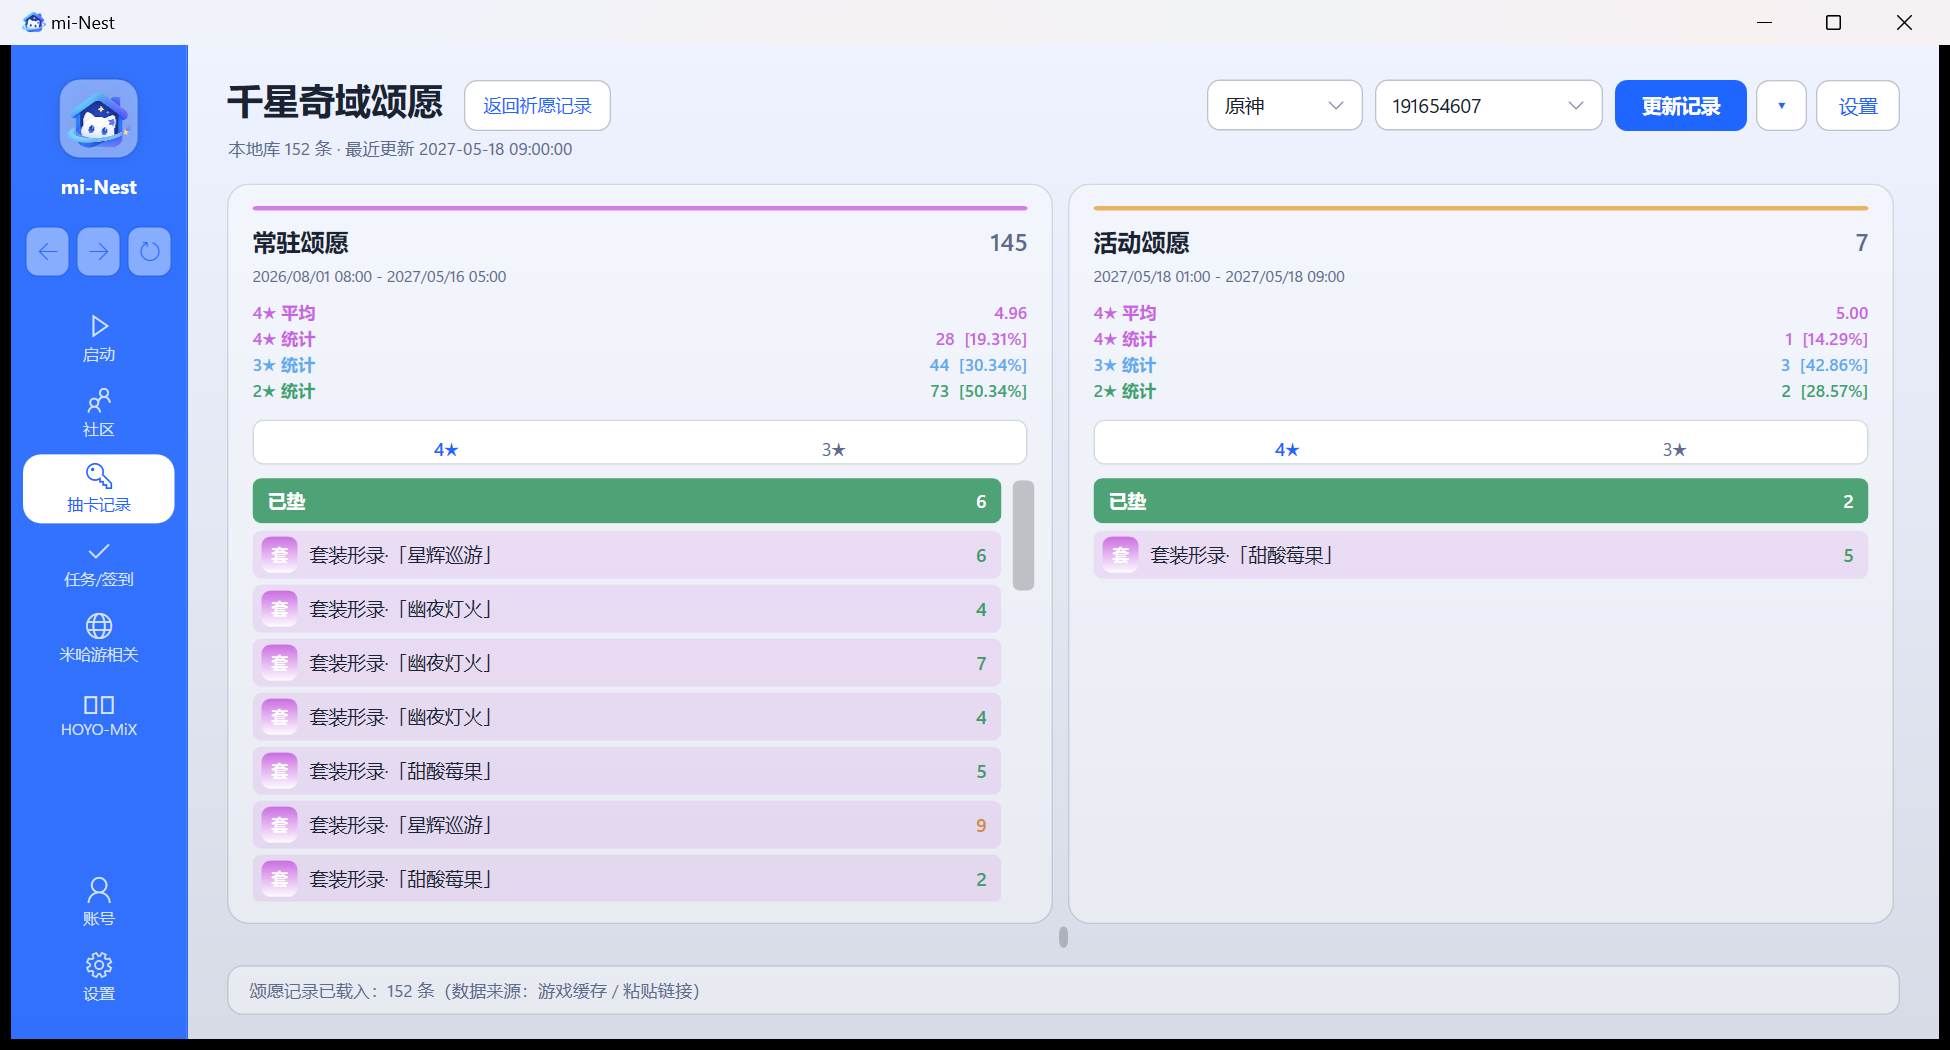
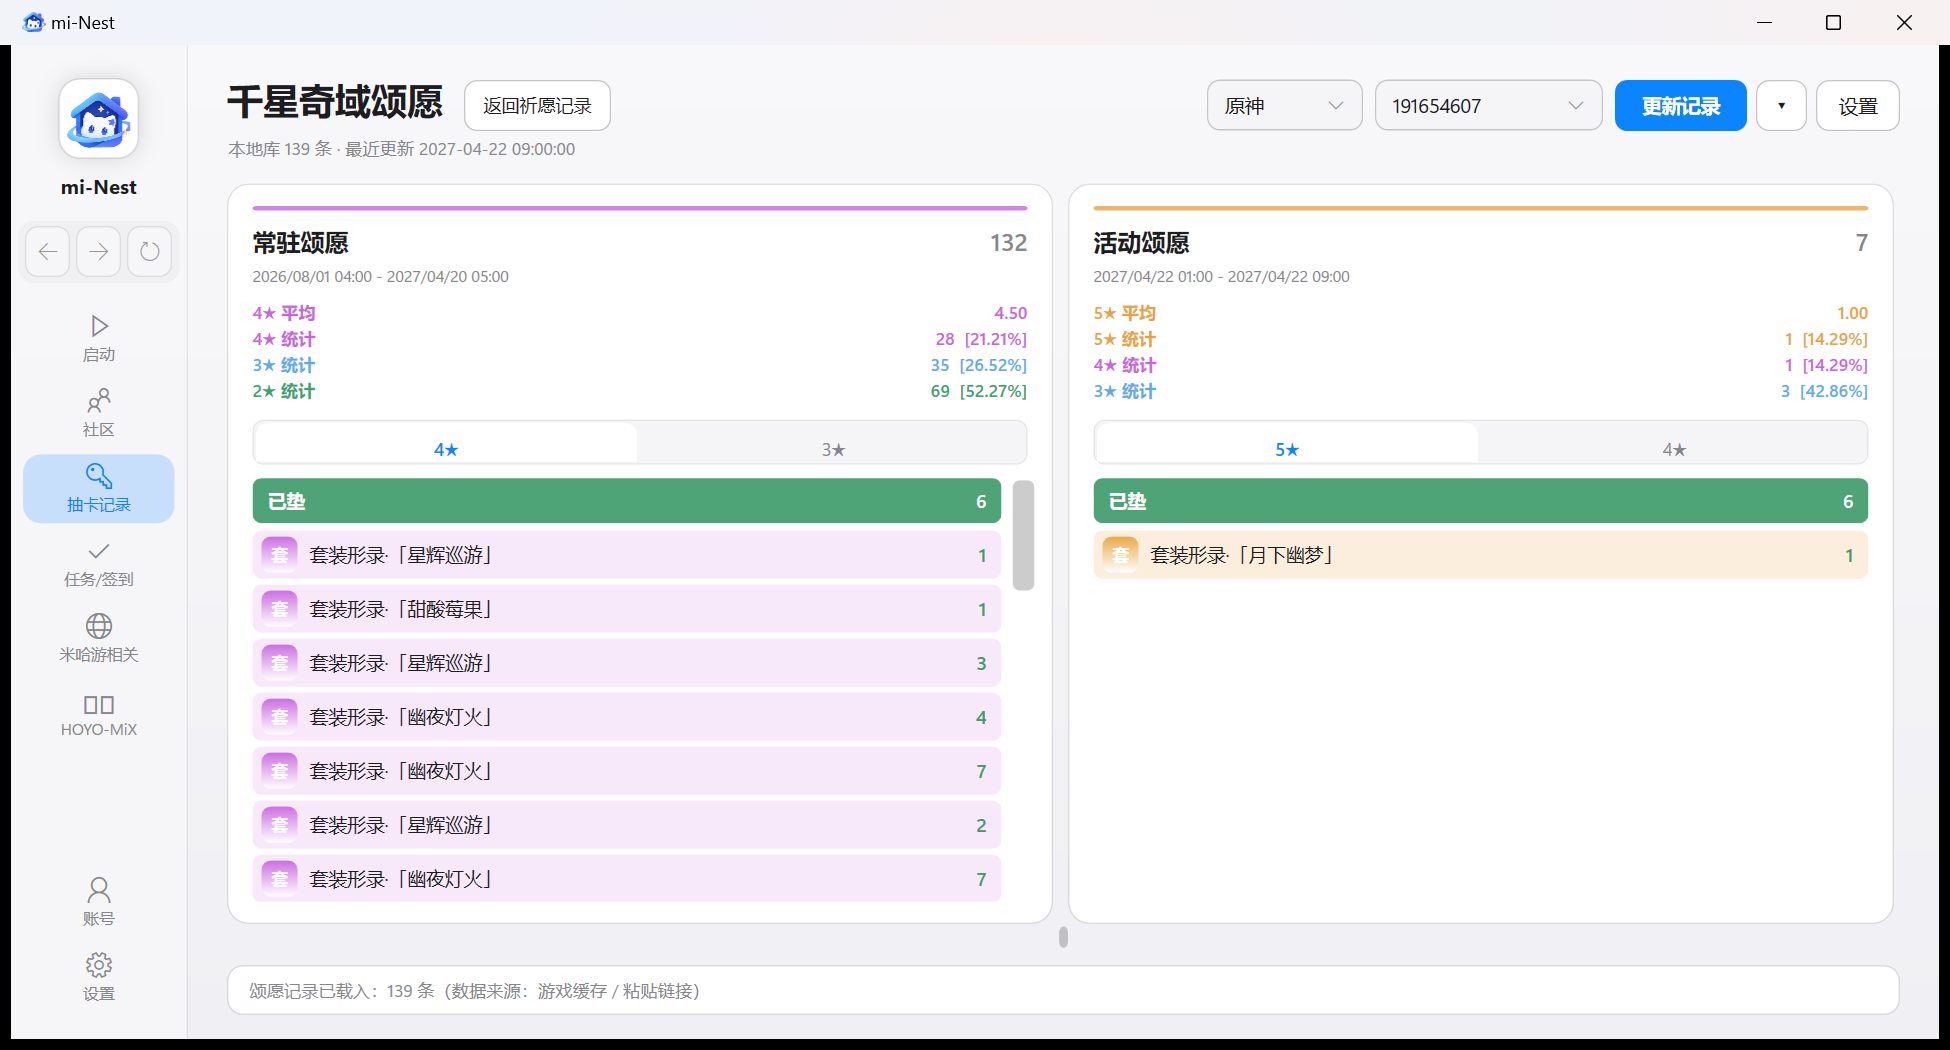
活动颂愿改为 5★/4★/3★ 统计与 5★、4★ 分段

diff --git a/src/mi-Nest/Pages/GachaPage.xaml.cs b/src/mi-Nest/Pages/GachaPage.xaml.cs
@@ -32,11 +32,14 @@ public partial class GachaPage : UserControl
     {
         public GachaPoolDef Pool = new("", "");
         public bool ShowFour = true;
+        public bool Activity;
         public Border Root = new();
         public Border Card = new();
         public StackPanel ListPanel = new();
+        public Button TabFive = new();
         public Button TabFour = new();
         public Button TabThree = new();
+        public List<RowVm> FiveRows = new();
         public List<RowVm> FourRows = new();
         public List<RowVm> ThreeRows = new();
         public int Total;
@@ -508,16 +511,25 @@ public partial class GachaPage : UserControl
 
     private BeyondColUi BuildBeyondColumn(GachaPoolDef pool, List<GachaItem> items)
     {
-        var col = new BeyondColUi { Pool = pool };
-        var accentHex = pool.Code == "1000" ? "#C864E0" : "#E8A33D";
+        var col = new BeyondColUi { Pool = pool, Activity = pool.Code == "2000" };
+        var accentHex = col.Activity ? "#E8A33D" : "#C864E0";
         var asc = items.OrderBy(x => x.Time).ThenBy(x => x.Id).ToList();
+        var five = new List<RowVm>();
         var four = new List<RowVm>();
         var three = new List<RowVm>();
         var c4 = 0;
+        var c5 = 0;
         foreach (var it in asc)
         {
             c4++;
-            if (it.RankType == "4")
+            c5++;
+            if (it.RankType == "5")
+            {
+                five.Add(new RowVm { Item = it, Pity = c5 });
+                c5 = 0;
+                c4 = 0;
+            }
+            else if (it.RankType == "4")
             {
                 four.Add(new RowVm { Item = it, Pity = c4 });
                 c4 = 0;
@@ -527,16 +539,19 @@ public partial class GachaPage : UserControl
                 three.Add(new RowVm { Item = it, Pity = c4 });
             }
         }
-        col.Pending = c4;
+        col.Pending = col.Activity ? c5 : c4;
+        col.FiveRows = five.OrderByDescending(r => r.Item.Time).ThenByDescending(r => r.Item.Id).ToList();
         col.FourRows = four.OrderByDescending(r => r.Item.Time).ThenByDescending(r => r.Item.Id).ToList();
         col.ThreeRows = three.OrderByDescending(r => r.Item.Time).ThenByDescending(r => r.Item.Id).ToList();
 
         var total = items.Count;
         col.Total = total;
+        var cFive2 = items.Count(x => x.RankType == "5");
         var cFour = items.Count(x => x.RankType == "4");
         var cThree = items.Count(x => x.RankType == "3");
         var cTwo = items.Count(x => x.RankType == "2");
         var avgFour = four.Count > 0 ? four.Average(r => r.Pity) : 0d;
+        var avgFive = five.Count > 0 ? five.Average(r => r.Pity) : 0d;
         var start = asc.FirstOrDefault()?.Time;
         var end = asc.LastOrDefault()?.Time;
 
@@ -608,10 +623,20 @@ public partial class GachaPage : UserControl
             Margin = new Thickness(0, 0, 0, 8),
             TextTrimming = TextTrimming.CharacterEllipsis,
         });
-        statPanel.Children.Add(StatRowHost("4★ 平均", four.Count > 0 ? avgFour.ToString("0.00") : "—", "#C864E0"));
-        statPanel.Children.Add(StatRowHost("4★ 统计", $"{cFour}  [{Pct(cFour)}]", "#C864E0"));
-        statPanel.Children.Add(StatRowHost("3★ 统计", $"{cThree}  [{Pct(cThree)}]", "#5EAAED"));
-        statPanel.Children.Add(StatRowHost("2★ 统计", $"{cTwo}  [{Pct(cTwo)}]", "#3BA272"));
+        if (col.Activity)
+        {
+            statPanel.Children.Add(StatRowHost("5★ 平均", five.Count > 0 ? avgFive.ToString("0.00") : "—", "#E8A33D"));
+            statPanel.Children.Add(StatRowHost("5★ 统计", $"{cFive2}  [{Pct(cFive2)}]", "#E8A33D"));
+            statPanel.Children.Add(StatRowHost("4★ 统计", $"{cFour}  [{Pct(cFour)}]", "#C864E0"));
+            statPanel.Children.Add(StatRowHost("3★ 统计", $"{cThree}  [{Pct(cThree)}]", "#5EAAED"));
+        }
+        else
+        {
+            statPanel.Children.Add(StatRowHost("4★ 平均", four.Count > 0 ? avgFour.ToString("0.00") : "—", "#C864E0"));
+            statPanel.Children.Add(StatRowHost("4★ 统计", $"{cFour}  [{Pct(cFour)}]", "#C864E0"));
+            statPanel.Children.Add(StatRowHost("3★ 统计", $"{cThree}  [{Pct(cThree)}]", "#5EAAED"));
+            statPanel.Children.Add(StatRowHost("2★ 统计", $"{cTwo}  [{Pct(cTwo)}]", "#3BA272"));
+        }
         Grid.SetRow(statPanel, 2);
         grid.Children.Add(statPanel);
 
@@ -624,18 +649,18 @@ public partial class GachaPage : UserControl
         Grid.SetColumnSpan(pillBg, 2);
         tabs.Children.Add(pillBg);
 
-        col.TabFour = MakePillButton("4★");
+        col.TabFive = MakePillButton(col.Activity ? "5★" : "4★");
+        col.TabFive.Margin = new Thickness(2);
+        col.TabFive.Click += (_, _) => SwitchBeyondTab(col, true);
+        Grid.SetColumn(col.TabFive, 0);
+
+        col.TabFour = MakePillButton(col.Activity ? "4★" : "3★");
         col.TabFour.Margin = new Thickness(2);
-        col.TabFour.Click += (_, _) => SwitchBeyondTab(col, true);
-        Grid.SetColumn(col.TabFour, 0);
+        col.TabFour.Click += (_, _) => SwitchBeyondTab(col, false);
+        Grid.SetColumn(col.TabFour, 1);
 
-        col.TabThree = MakePillButton("3★");
-        col.TabThree.Margin = new Thickness(2);
-        col.TabThree.Click += (_, _) => SwitchBeyondTab(col, false);
-        Grid.SetColumn(col.TabThree, 1);
-
+        tabs.Children.Add(col.TabFive);
         tabs.Children.Add(col.TabFour);
-        tabs.Children.Add(col.TabThree);
         Grid.SetRow(tabs, 3);
         grid.Children.Add(tabs);
 
@@ -671,37 +696,42 @@ public partial class GachaPage : UserControl
     private static string ColorForFour(int pity)
         => pity >= 10 ? "#C0453F" : pity >= 8 ? "#D08A3E" : "#3F9B6B";
 
-    private void SwitchBeyondTab(BeyondColUi col, bool fourStar)
+    private void SwitchBeyondTab(BeyondColUi col, bool first)
     {
-        col.ShowFour = fourStar;
+        col.ShowFour = first;
         var accent = (Brush)Application.Current.Resources["Accent"];
         var secondary = (Brush)Application.Current.Resources["TextSecondary"];
         var cardBg = (Brush)Application.Current.Resources["CardBg"];
 
-        col.TabFour.Background = fourStar ? cardBg : Brushes.Transparent;
-        col.TabThree.Background = fourStar ? Brushes.Transparent : cardBg;
-        col.TabFour.Foreground = fourStar ? accent : secondary;
-        col.TabThree.Foreground = fourStar ? secondary : accent;
-        col.TabFour.FontWeight = fourStar ? FontWeights.SemiBold : FontWeights.Normal;
-        col.TabThree.FontWeight = fourStar ? FontWeights.Normal : FontWeights.SemiBold;
+        col.TabFive.Background = first ? cardBg : Brushes.Transparent;
+        col.TabFour.Background = first ? Brushes.Transparent : cardBg;
+        col.TabFive.Foreground = first ? accent : secondary;
+        col.TabFour.Foreground = first ? secondary : accent;
+        col.TabFive.FontWeight = first ? FontWeights.SemiBold : FontWeights.Normal;
+        col.TabFour.FontWeight = first ? FontWeights.Normal : FontWeights.SemiBold;
         RenderBeyondRows(col);
     }
 
     private void RenderBeyondRows(BeyondColUi col)
     {
         col.ListPanel.Children.Clear();
-        var rows = col.ShowFour ? col.FourRows : col.ThreeRows;
+        var rows = col.Activity
+            ? (col.ShowFour ? col.FiveRows : col.FourRows)
+            : (col.ShowFour ? col.FourRows : col.ThreeRows);
+        var starLabel = col.Activity
+            ? (col.ShowFour ? "5★" : "4★")
+            : (col.ShowFour ? "4★" : "3★");
         col.EmptyHint.Visibility = rows.Count == 0 ? Visibility.Visible : Visibility.Collapsed;
-        col.EmptyHint.Text = col.ShowFour ? "暂无 4★ 记录" : "暂无 3★ 记录";
+        col.EmptyHint.Text = $"暂无 {starLabel} 记录";
 
-        // 已垫（距上次 4★ 的抽数）
+        // 已垫（常驻：距上次 4★；活动：距上次 5★）
         var pityRow = new Grid { Margin = new Thickness(0, 0, 0, 5), Height = 30 };
         pityRow.ColumnDefinitions.Add(new ColumnDefinition { Width = new GridLength(1, GridUnitType.Star) });
         pityRow.ColumnDefinitions.Add(new ColumnDefinition { Width = GridLength.Auto });
         var bg = new Border
         {
             CornerRadius = new CornerRadius(6),
-            Background = Brush(ColorForFour(col.Pending)),
+            Background = Brush(col.Activity ? ColorFor(col.Pending) : ColorForFour(col.Pending)),
             Opacity = 0.92,
         };
         Grid.SetColumnSpan(bg, 2);
@@ -730,10 +760,10 @@ public partial class GachaPage : UserControl
         col.ListPanel.Children.Add(pityRow);
 
         foreach (var row in rows)
-            col.ListPanel.Children.Add(BuildBeyondRow(row, col.ShowFour));
+            col.ListPanel.Children.Add(BuildBeyondRow(row));
     }
 
-    private Border BuildBeyondRow(RowVm row, bool fourStar)
+    private Border BuildBeyondRow(RowVm row)
     {
         var rank = row.Item.RankType;
         var rankColor = BeyondRankColor.TryGetValue(rank, out var rc) ? rc : "#7C93B0";
@@ -798,7 +828,7 @@ public partial class GachaPage : UserControl
             Text = row.Pity.ToString(),
             FontSize = 12.5,
             FontWeight = FontWeights.SemiBold,
-            Foreground = Brush(ColorForFour(row.Pity)),
+            Foreground = Brush(rank == "5" ? ColorFor(row.Pity) : ColorForFour(row.Pity)),
             VerticalAlignment = VerticalAlignment.Center,
             Margin = new Thickness(0, 0, 10, 0),
         };
